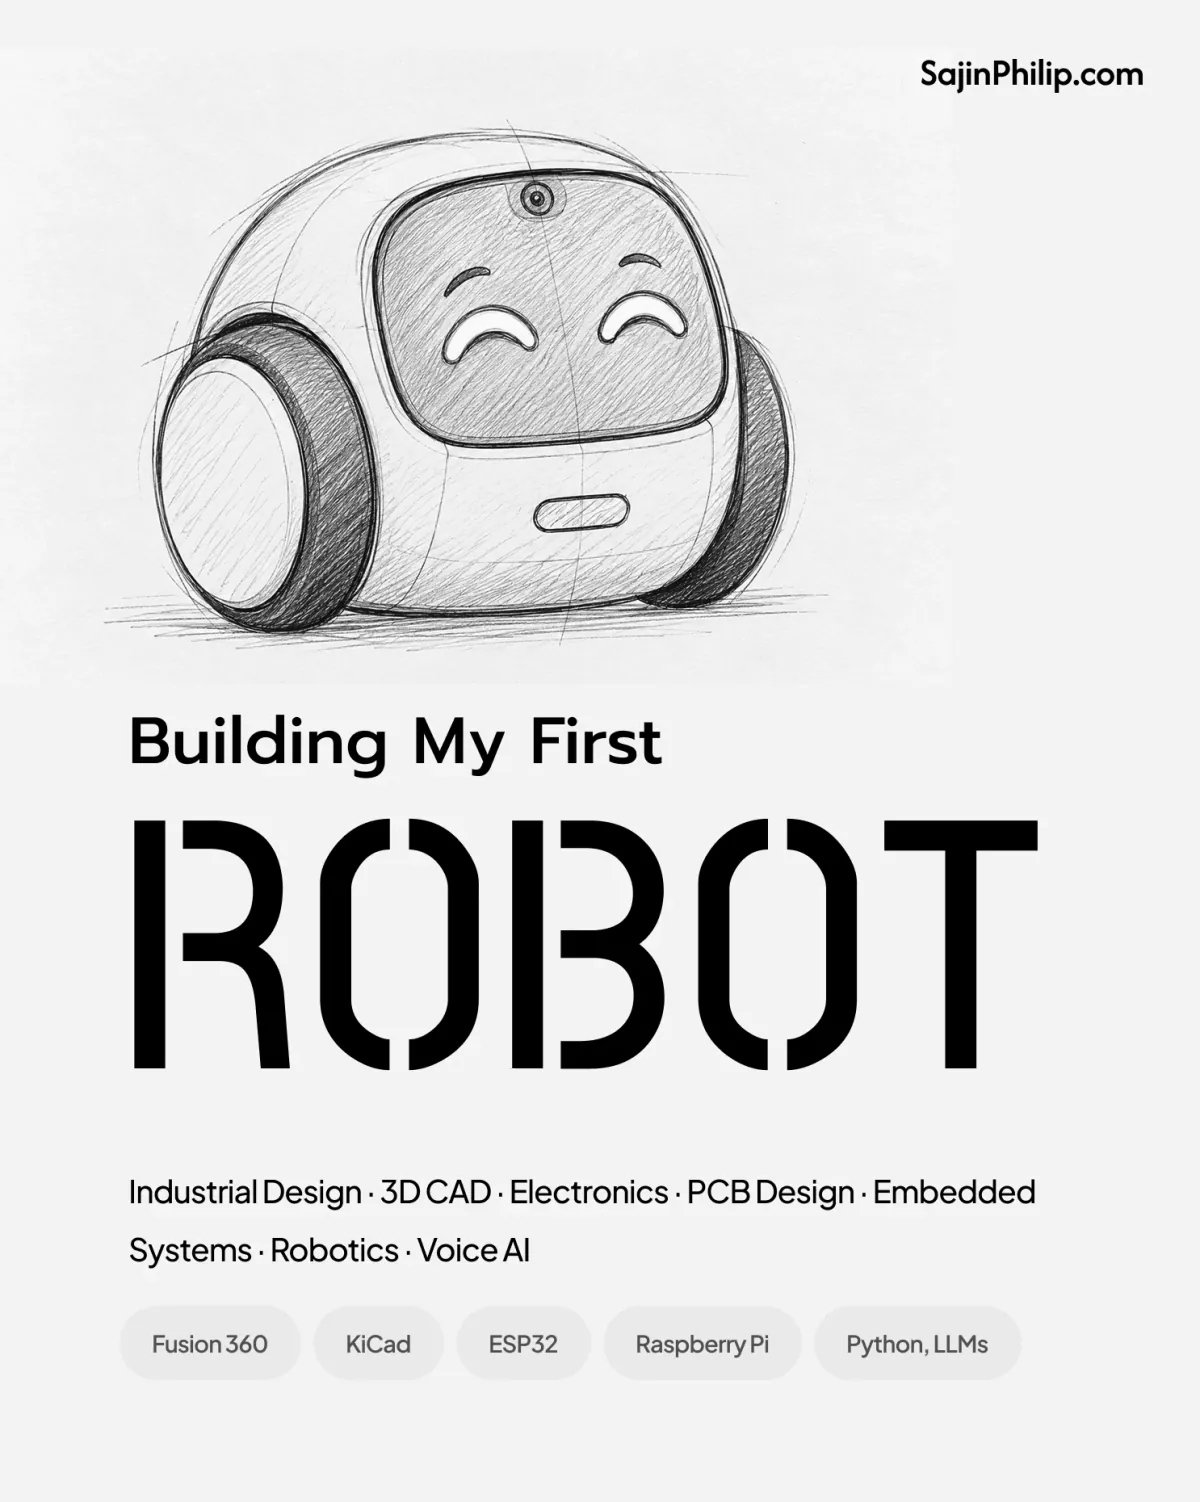
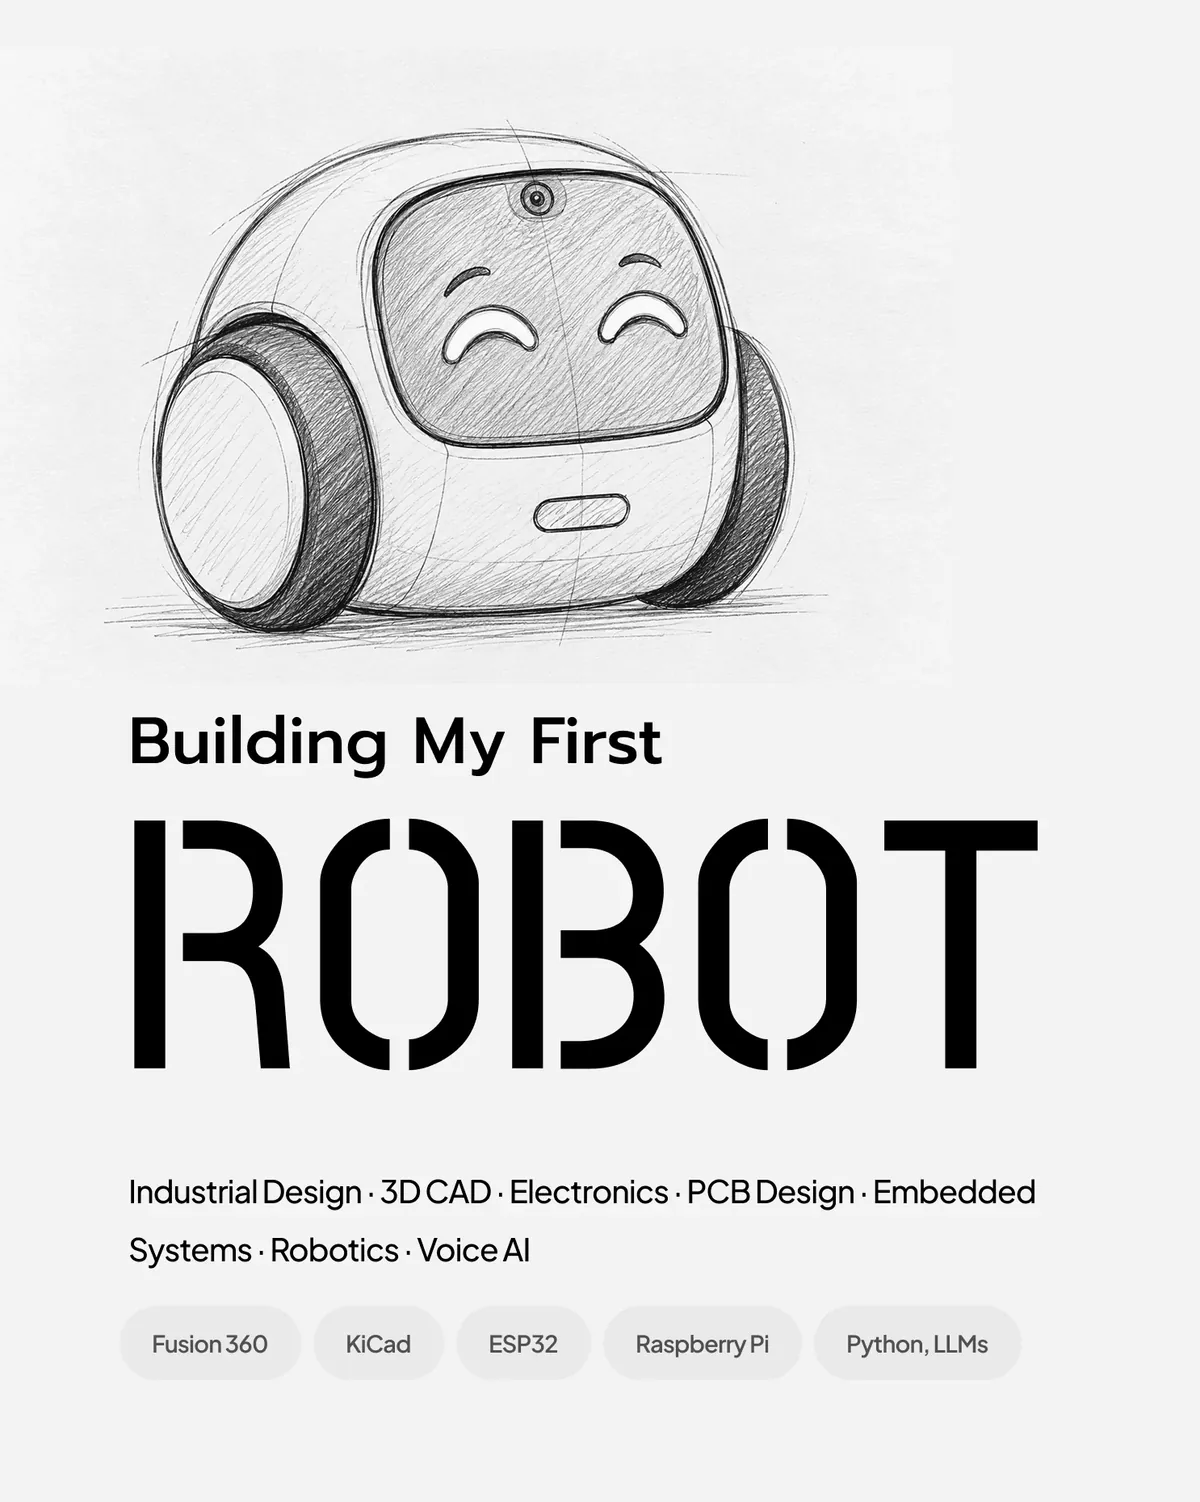
Faint Coming Soon on the robot poster and a Menu pill

Changed region(s): [[0.7708, 0.0306, 0.9558, 0.0613]]

diff --git a/src/components/home/SiteHeader.module.css b/src/components/home/SiteHeader.module.css
@@ -56,7 +56,26 @@
   opacity: 0.75;
 }
 
-.bars,
+/* Opens the menu: a labelled pill reads clearly beside the section dots and the robot poster. */
+.menuPill {
+  min-height: 40px;
+  padding: 0 20px;
+  border: 1px solid currentColor;
+  border-radius: 999px;
+  background: transparent;
+  color: inherit;
+  font-family: var(--font-sans);
+  font-size: 13px;
+  font-weight: 600;
+  letter-spacing: 0.08em;
+  text-transform: uppercase;
+  cursor: pointer;
+}
+
+.menuPill:hover {
+  background: color-mix(in srgb, currentColor 12%, transparent);
+}
+
 .cross {
   position: relative;
   display: block;
@@ -64,8 +83,6 @@
   height: 12px;
 }
 
-.bars::before,
-.bars::after,
 .cross::before,
 .cross::after {
   content: "";
@@ -74,14 +91,6 @@
   right: 0;
   height: 2px;
   background: currentColor;
-}
-
-.bars::before {
-  top: 0;
-}
-
-.bars::after {
-  bottom: 0;
 }
 
 .cross::before,

diff --git a/src/components/home/Hero.module.css b/src/components/home/Hero.module.css
@@ -58,19 +58,15 @@
   box-shadow: 0 20px 48px rgba(0, 0, 0, 0.4);
 }
 
+/* Sits where the poster's own wordmark was, kept faint so it doesn't pull focus from the poster. */
 .comingSoonLabel {
   position: absolute;
-  top: 16px;
-  left: 16px;
-  padding: 8px 14px;
-  border-radius: 999px;
-  background: var(--ink);
-  color: var(--paper);
-  font-size: 12px;
+  top: 3.6%;
+  right: 4.8%;
+  font-size: 2.9cqw;
   font-weight: 600;
   line-height: 1;
-  letter-spacing: 0.12em;
-  text-transform: uppercase;
+  color: #c2c2c2;
 }
 
 .robotSection {
@@ -80,6 +76,11 @@
 .robotFigure {
   position: relative;
   margin: 0;
+}
+
+.comingSoon,
+.robotFigure {
+  container-type: inline-size;
 }
 
 .content {

diff --git a/src/components/home/SiteHeader.tsx b/src/components/home/SiteHeader.tsx
@@ -68,8 +68,8 @@ export function SiteHeader({ theme, solid, onNavigate }: Props) {
       <Link href="/" className={styles.logo} aria-label={`${site.name}, home`} onClick={(e) => follow(e, "top")}>
         <Logo />
       </Link>
-      <button type="button" className={styles.menuButton} aria-label="Open menu" aria-haspopup="dialog" onClick={open}>
-        <span aria-hidden="true" className={styles.bars} />
+      <button type="button" className={styles.menuPill} aria-haspopup="dialog" onClick={open}>
+        Menu
       </button>
 
       <dialog

diff --git a/src/content/home.ts b/src/content/home.ts
@@ -42,7 +42,7 @@ export const hero = {
     { label: "Teams built", value: "3" },
   ],
   comingSoon: {
-    label: "Coming soon",
+    label: "Coming Soon",
     image: "/media/robot-coming-soon.webp",
     alt: "Pencil sketch of a small wheeled robot with a smiling screen face. Building my first robot: industrial design, 3D CAD, electronics, PCB design, embedded systems, robotics and voice AI.",
   },
